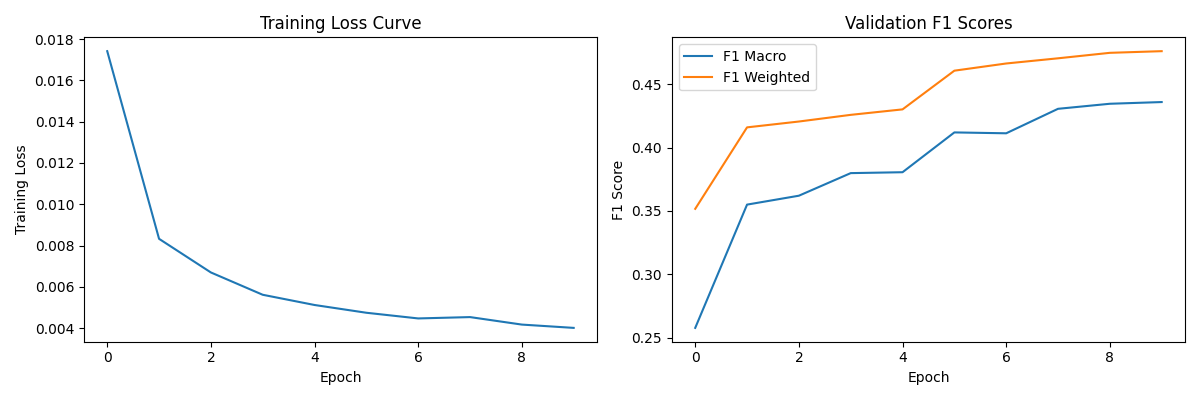
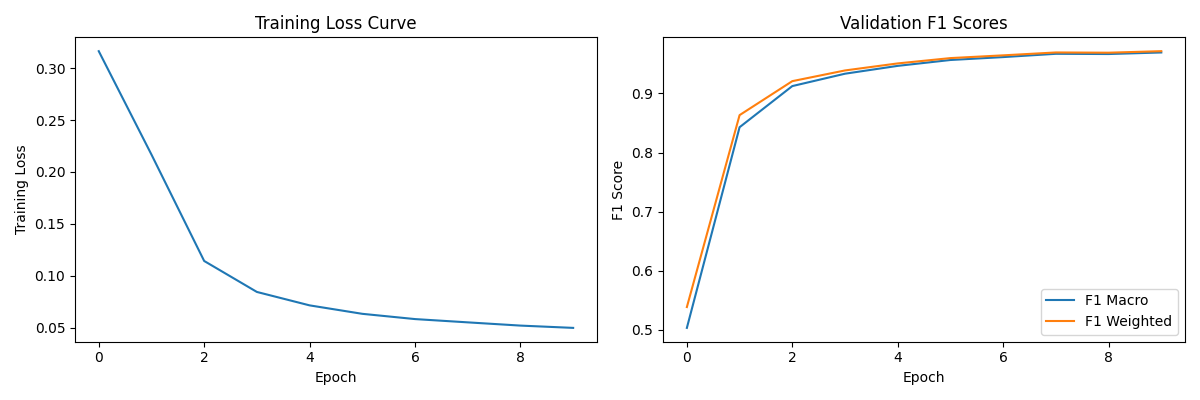
1.combine the rest of labels except lang1

diff --git a/train.py b/train.py
@@ -8,6 +8,7 @@ from loss import HybridLoss
 
 from sklearn.metrics import f1_score, classification_report
 from torch.utils.data import DataLoader
+from torch.utils.data import WeightedRandomSampler
 import numpy as np
 import matplotlib.pyplot as plt
 
@@ -66,10 +67,15 @@ def compute_class_weights(dataset):
     # calculate class weights
     class_counts = np.bincount(all_labels)
 
-    beta = 0.999
-    weights = (1 - beta) / (1 - beta ** class_counts)
-    # or use the following
-    # weights = np.sqrt(1 / class_counts)
+    n_samples = len(all_labels)
+    n_classes = len(class_counts)
+
+    weights = n_samples / (n_classes * class_counts + 1e-5)
+
+    # weights = 1 + np.log(weights)
+    weights = np.sqrt(weights)
+
+    # Normalize the weights
     weights = weights / weights.sum() * len(weights)
 
     return torch.FloatTensor(weights)
@@ -77,8 +83,9 @@ def compute_class_weights(dataset):
 
 def compute_metrics(pred_labels, true_labels, attention_mask):
     # only consider the active parts of the sequence
-    active_labels = true_labels[attention_mask == 1]
-    active_preds = pred_labels[attention_mask == 1]
+    valid_mask = (attention_mask == 1) & (true_labels != -100)
+    active_labels = true_labels[valid_mask]
+    active_preds = pred_labels[valid_mask]
 
     f1_macro = f1_score(active_labels.cpu(), active_preds.cpu(), average='macro', zero_division=0)
     f1_weighted = f1_score(active_labels.cpu(), active_preds.cpu(), average='weighted', zero_division=0)
@@ -128,11 +135,48 @@ def evaluate_model(model, test_dataset, device):
     return metrics
 
 
+def create_balanced_sampler(dataset):
+    """
+    Create a balanced sampler for imbalanced datasets
+
+    Args:
+        dataset: PyTorch Dataset object
+
+    Returns:
+        WeightedRandomSampler object
+    """
+
+    """
+    p.s. Potential improvement direction!
+    """
+    labels = []
+    for batch in DataLoader(dataset, batch_size=32):
+        labels.extend(batch['labels'].view(-1).tolist())
+
+    # calculate class weights
+    class_counts = np.bincount(labels)
+    class_weights = 1.0 / class_counts
+
+    # create sample weights
+    sample_weights = [class_weights[label] for label in labels]
+
+    # create sampler
+    sampler = WeightedRandomSampler(
+        weights=sample_weights,
+        num_samples=len(sample_weights),
+        replacement=True
+    )
+
+    return sampler
+
+
 def train(config):
     if torch.backends.mps.is_available():
         device = torch.device("mps")
+    elif torch.cuda.is_available():
+        device = torch.device("cuda")
     else:
-        device = torch.device("cuda" if torch.cuda.is_available() else "cpu")
+        device = torch.device("cpu")
 
     """Main training function"""
     logger = setup_logging()
@@ -148,13 +192,14 @@ def train(config):
 
     train_dataset = CSDataset('lid_spaeng/train.conll', tokenizer, mask_out_prob=0.25)
     eval_dataset = CSDataset('lid_spaeng/dev.conll', tokenizer, mask_out_prob=0)
-    test_dataset = CSDataset('lid_hineng/dev.conll', tokenizer, mask_out_prob=0)
+    test_dataset = CSDataset('lid_nepeng/dev.conll', tokenizer, mask_out_prob=0)
 
     label2id = train_dataset.label2id
     id2label = train_dataset.id2label
     label_list = list(label2id.keys())
 
     train_dataloader = DataLoader(train_dataset, batch_size=config['batch_size'], shuffle=True)
+    # train_dataloader = create_balanced_sampler(train_dataset)
 
     model = AutoModelForTokenClassification.from_pretrained(
         pretrained_model, num_labels=len(label_list), id2label=id2label, label2id=label2id
@@ -170,8 +215,9 @@ def train(config):
     )
 
     class_weights = compute_class_weights(train_dataset).to(device)
+    print(f"Class Weights: {class_weights}")
     # loss_fn = torch.nn.CrossEntropyLoss(weight=class_weights)
-    loss_fn = HybridLoss(weights=class_weights, alpha=0.5, gamma=2.0)
+    loss_fn = HybridLoss(class_weights, gamma=1.0)
 
     train_losses = []
     dev_f1_macro = []
@@ -187,14 +233,15 @@ def train(config):
             attention_mask = batch['attention_mask'].to(device)
             labels = batch['labels'].to(device)
 
-            outputs = model(inputs, attention_mask=attention_mask)
-            loss = loss_fn(outputs.logits.view(-1, model.config.num_labels), labels.view(-1))
-
             optimizer.zero_grad()
+            outputs = model(inputs, attention_mask=attention_mask)
+            loss = loss_fn(outputs.logits.view(-1, model.config.num_labels),
+                           labels.view(-1))
+
             loss.backward()
             clip_grad_norm_(model.parameters(), 1.0)
-            scheduler.step()
             optimizer.step()
+            scheduler.step()
 
             epoch_loss += loss.item()
 
@@ -267,10 +314,10 @@ if __name__ == "__main__":
         'eval_file': 'lid_spaeng/dev.conll',
         'test_file': 'lid_hineng/train.conll',
         'batch_size': 128,
-        'learning_rate': 5e-5,
+        'learning_rate': 2e-5,
         'weight_decay': 0.01,
         'num_epochs': 10,
-        'warmup_ratio': 10,
+        'warmup_ratio': 0.1,
         'max_grad_norm': 1.0,
         'seed': 2137
     }

diff --git a/loss.py b/loss.py
@@ -4,46 +4,13 @@ import torch.nn.functional as F
 
 
 class HybridLoss(nn.Module):
-    def __init__(self, weights, alpha=0.5, gamma=2.0):
+    def __init__(self, weight=None, gamma=2.0):
         super().__init__()
-        self.ce = nn.CrossEntropyLoss(weight=weights, reduction='none')
-        self.weights = weights
-        self.alpha = alpha
         self.gamma = gamma
-        self.eps = 1e-7  # 防止数值溢出的小常数
+        self.weight = weight
 
-    def forward(self, logits, labels):
-        # 1. 对logits进行clipping防止极端值
-        logits = torch.clamp(logits, -100, 100)
-
-        # 2. 计算CrossEntropy Loss
-        ce_loss = self.ce(logits, labels)
-
-        # 3. 计算Focal Loss，添加数值稳定性处理
-        probs = F.softmax(logits, dim=-1)
-        probs = torch.clamp(probs, self.eps, 1.0 - self.eps)  # 裁剪概率值
-
-        # 4. 获取目标类别的概率
-        p_t = probs[range(len(labels)), labels]
-
-        # 5. 计算focal loss，添加防护措施
-        focal_term = (1 - p_t) ** self.gamma
-        focal_term = torch.clamp(focal_term, 0, 16)  # 防止指数项过大
-        focal_loss = -focal_term * torch.log(p_t)
-
-        if self.weights is not None:
-            focal_loss = focal_loss * self.weights[labels]
-
-        # 6. 合并损失
-        total_loss = self.alpha * ce_loss + (1 - self.alpha) * focal_loss
-
-        # 7. 检查并处理无效值
-        if torch.isnan(total_loss).any() or torch.isinf(total_loss).any():
-            print("Warning: NaN or Inf detected in loss calculation")
-            print(f"CE Loss: {ce_loss.mean()}")
-            print(f"Focal Loss: {focal_loss.mean()}")
-            total_loss = torch.where(torch.isnan(total_loss) | torch.isinf(total_loss),
-                                     torch.zeros_like(total_loss),
-                                     total_loss)
-
-        return total_loss.mean()
+    def forward(self, input, target):
+        ce_loss = F.cross_entropy(input, target, weight=self.weight, reduction='none')
+        pt = torch.exp(-ce_loss)
+        focal_loss = ((1 - pt) ** self.gamma * ce_loss).mean()
+        return focal_loss

diff --git a/CS_Dataset.py b/CS_Dataset.py
@@ -16,10 +16,12 @@ class CSDataset(Dataset):
 
         self.sentences, self.labels, all_labels = self._read_conll_file(file_path)
 
-        label2id = {label: idx for idx, label in enumerate(sorted(set(all_labels)))}
-        # sort by label name
-        self.label2id = dict(sorted(label2id.items()))
-        self.id2label = {idx: label for label, idx in self.label2id.items()}
+        # label2id = {label: idx for idx, label in enumerate(sorted(set(all_labels)))}
+        # # sort by label name
+        # self.label2id = dict(sorted(label2id.items()))
+        # self.id2label = {idx: label for label, idx in self.label2id.items()}
+        self.label2id = {"lang1": 0, "lang2": 1, "other": 2}
+        self.id2label = {0: "lang1", 1: "lang2", 2: "other"}
 
         self.encoded_data = self._preprocess_data()
 
@@ -52,6 +54,8 @@ class CSDataset(Dataset):
 
                     if len(parts) >= 2:  # make sure the line has at least two columns
                         token, label = parts[0], parts[-1]
+                        if label not in ['lang1', 'lang2', 'other']:
+                            label = 'other'
                         current_sentence.append(token)
                         current_labels.append(label)
                         all_labels.add(label)

diff --git a/utils/analysis.py b/utils/analysis.py
@@ -9,7 +9,7 @@ if __name__ == "__main__":
 
     train_dataset = CSDataset('../lid_spaeng/train.conll', tokenizer, mask_out_prob=0)
     eval_dataset = CSDataset('../lid_spaeng/dev.conll', tokenizer, mask_out_prob=0)
-    test_dataset = CSDataset('../lid_hineng/dev.conll', tokenizer, mask_out_prob=0)
+    test_dataset = CSDataset('../lid_nepeng/train.conll', tokenizer, mask_out_prob=0)
 
     stats_train = train_dataset.get_statistics()
     stats_eval = eval_dataset.get_statistics()
